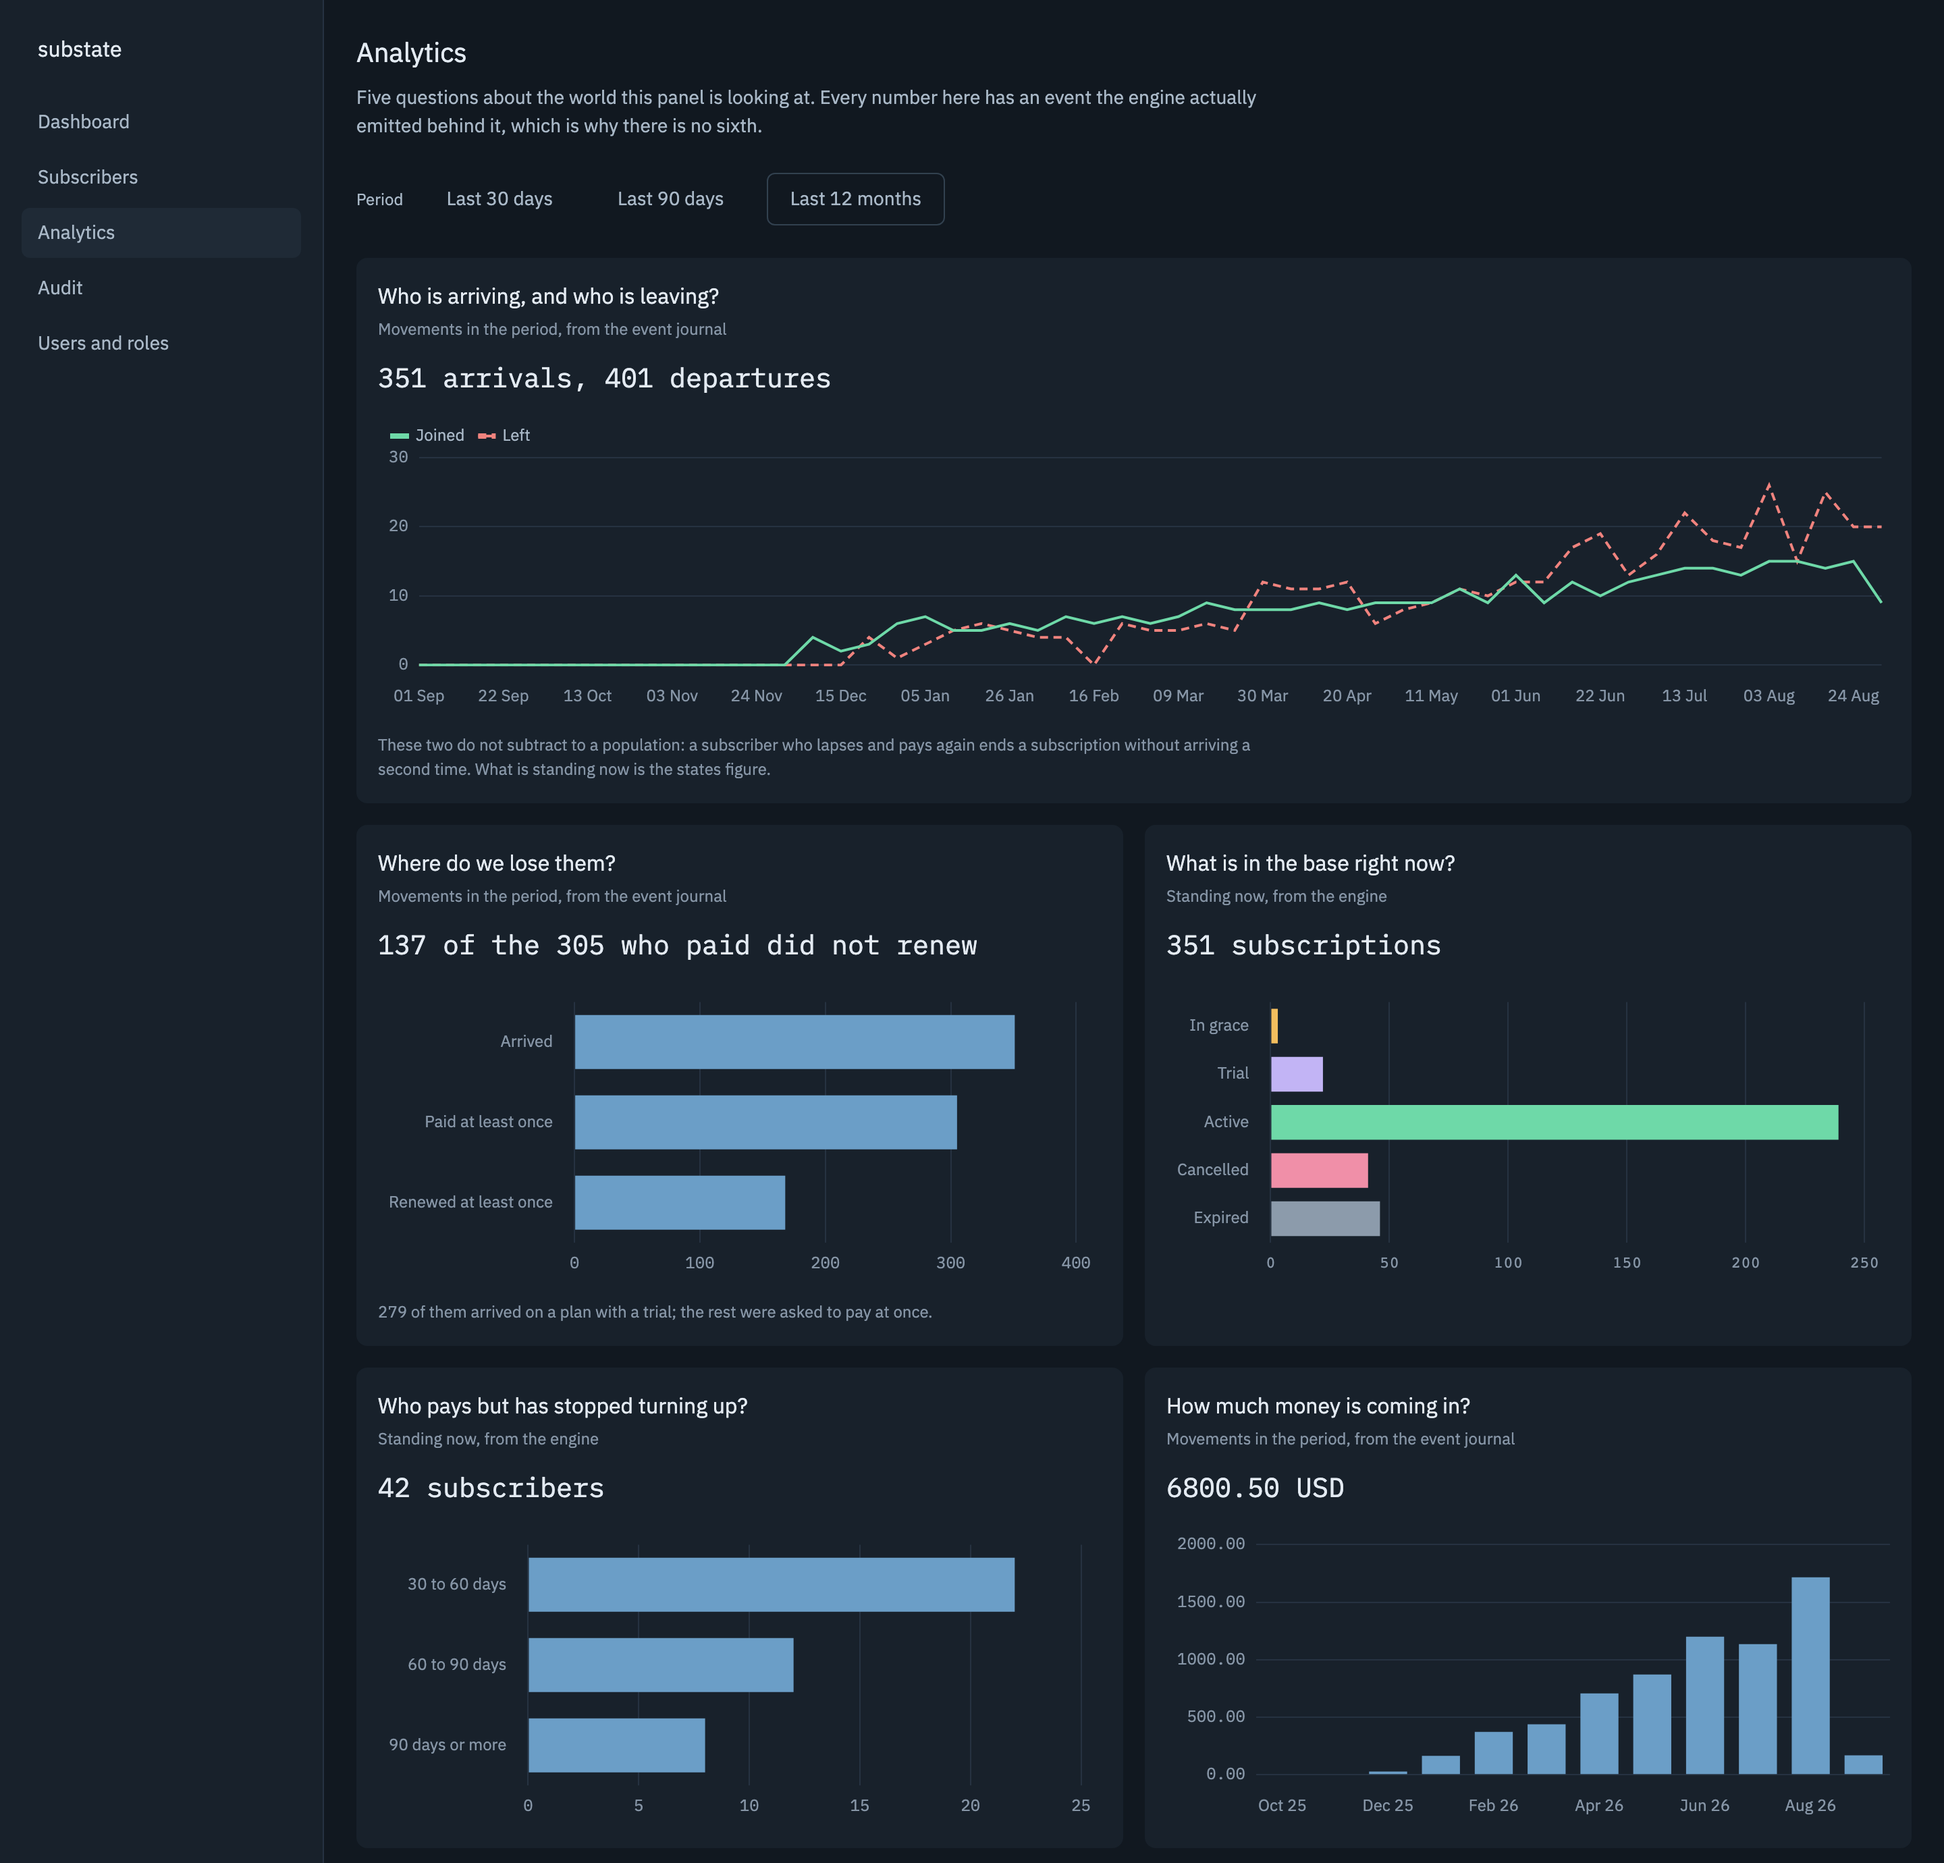
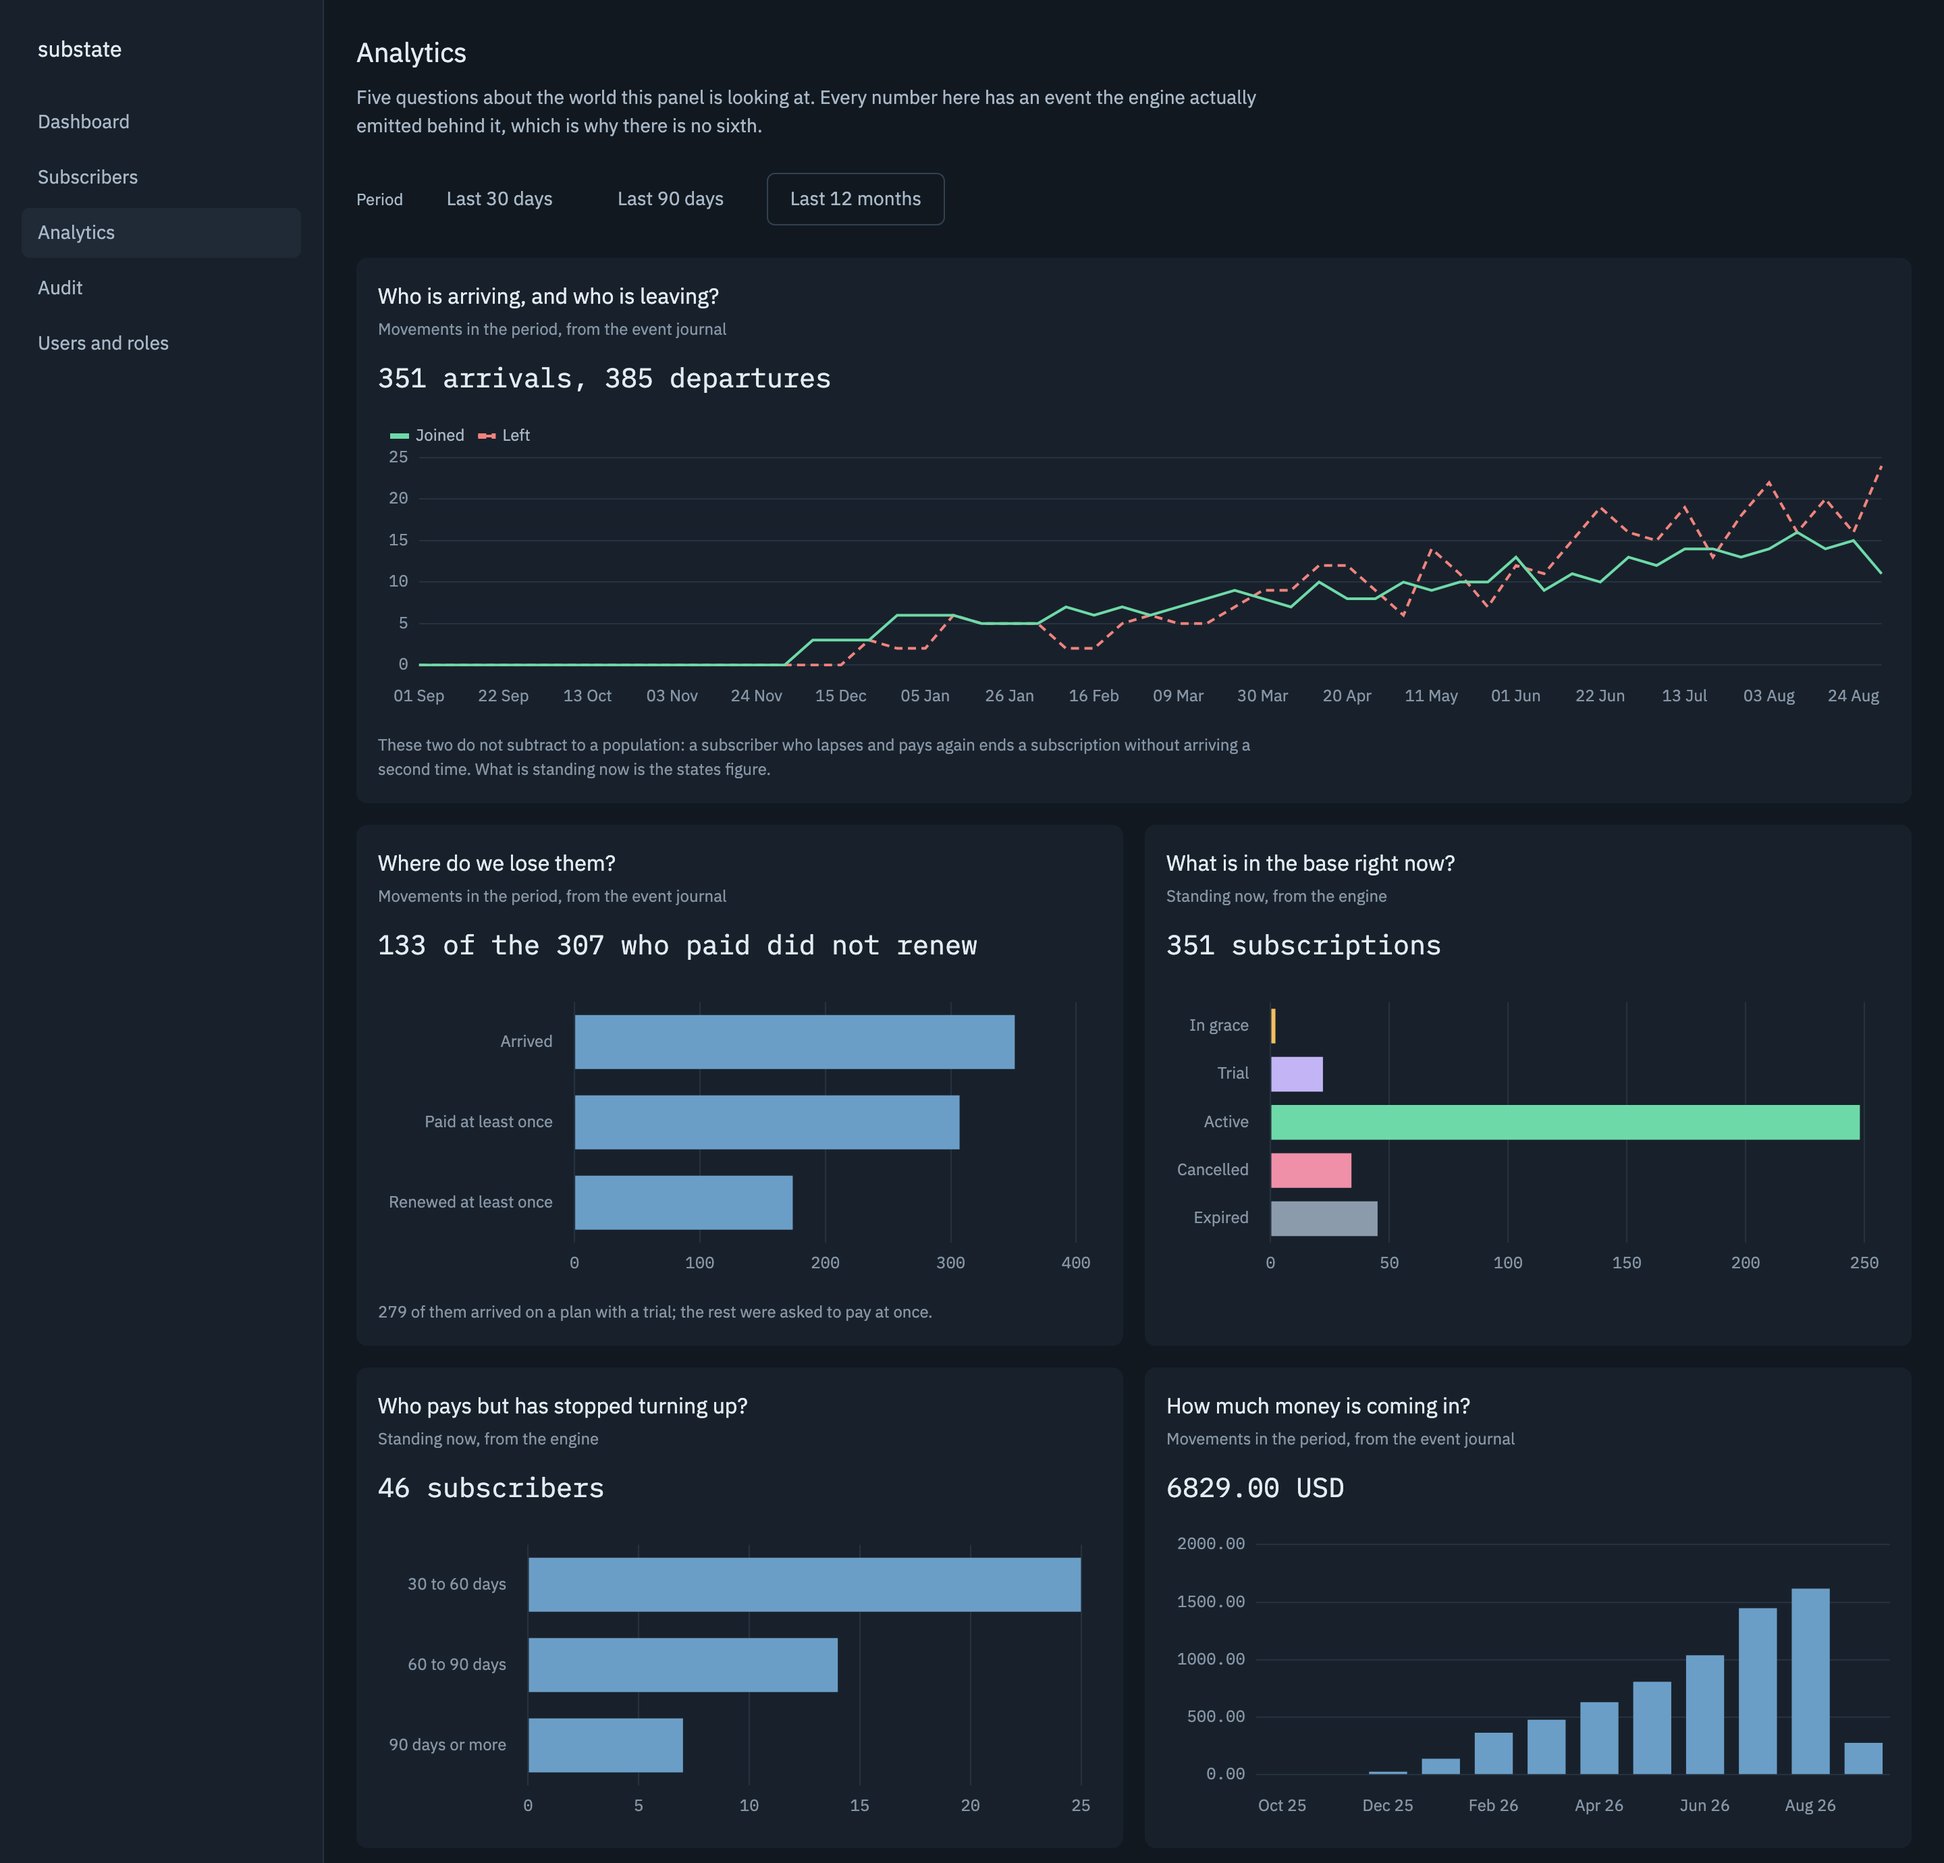
fix(backend): standing grace is a size, and the test asks for one
A single-digit population read once is a sample. Over 120 landing days it
ran 0 to 8 around a mean of 3.1, so the floor of three sat below its own
mean and failed on 38% of them — and the call-today filter was empty on
one day in forty.

The weekly plan makes most of the missed payments and held them two days,
which is shorter than a weekend. Six puts the mean at 5.6 and empties the
filter on none of those 120 days. The test now asserts the mean over a
week of landing days, and the picture chooses its own page.

diff --git a/frontend/capture/subscribers.capture.ts b/frontend/capture/subscribers.capture.ts
@@ -16,7 +16,7 @@
 
 import { fileURLToPath } from 'node:url'
 
-import { expect, test } from '@playwright/test'
+import { expect, test, type Page } from '@playwright/test'
 
 import { account } from '../playwright.config.ts'
 
@@ -25,21 +25,32 @@ import { account } from '../playwright.config.ts'
 const SHOT = fileURLToPath(new URL('../../docs/subscribers.png', import.meta.url))
 
 /** Twelve rows rather than the default twenty-five: the pager is only worth showing next to the
- *  rows it pages through, and twenty-five of them push it a screen below the filters.
- *
- *  The order is the table's own, and the page is not the first one. Sorted by last activity, page
- *  one is everybody who turned up today — trials and actives, two colours for a column that has
- *  five. Further in, the same order holds four of them, and both pager buttons are live.
- *
- *  THE PAGE NUMBER IS RE-CHOSEN WHEN THE CALENDAR MOVES IT, and that is the arrangement rather
- *  than a maintenance cost. The seed fixes the population; the world is nine months of history
- *  ending now, so which people sit on which page of an activity-ordered table moves as the days
- *  do. It was page six; the assertion below is what said so rather than letting the picture
- *  quietly become a column of one colour. */
-const QUERY = '?page=28&pageSize=12'
+ *  rows it pages through, and twenty-five of them push it a screen below the filters. */
 const PAGE_SIZE = 12
 
+/** THE PAGE IS CHOSEN HERE RATHER THAN WRITTEN DOWN, and that is the correction.
+ *
+ *  A pinned number was re-chosen by hand every time the calendar moved under the world — it was
+ *  six, then twenty-eight — and measuring it finally said why that never stopped: over 21 landing
+ *  days the states on page 28 ran 2 to 4, and no page at all reached four on 8 of those days. A
+ *  written-down page with a floor under it is a coin, and it came up tails in CI.
+ *
+ *  So the run asks the table which page has the most of the lifecycle on it and photographs that
+ *  one. The floor below is what the world always affords: three of the five, on all 21 days. */
+const COLOURS = 3
+
+/** The table's own order, which is what makes the picture honest and also what caps it. Activity
+ *  and state are correlated by construction — today's visitors are trials and actives, the long
+ *  silent are expired and cancelled — so a page of twelve spans three states, not five. */
+const SORT = '-lastActiveAt'
+
 test('the subscriber table', async ({ page }) => {
+  const login = page.waitForResponse(
+    (response) =>
+      new URL(response.url()).pathname === '/api/auth/login' &&
+      response.request().method() === 'POST',
+  )
+
   await page.goto('/')
   await page.getByLabel('Email', { exact: true }).fill(account.email)
   await page.getByLabel('Password', { exact: true }).fill(account.password)
@@ -48,9 +59,11 @@ test('the subscriber table', async ({ page }) => {
   // Signed in before navigating, not merely asked to be. The access token is held in memory and
   // the navigation below throws that heap away, so leaving early lands on the login page with a
   // refresh cookie that was never issued.
+  const { accessToken } = (await (await login).json()) as { accessToken: string }
   await expect(page.getByRole('link', { name: 'Subscribers' })).toBeVisible()
 
-  await page.goto(`/subscribers${QUERY}`)
+  const chosen = await richestPage(page, accessToken)
+  await page.goto(`/subscribers?page=${chosen}&pageSize=${PAGE_SIZE}&sort=${SORT}`)
 
   const rows = page.locator('tbody tr')
   await expect(rows).toHaveCount(PAGE_SIZE)
@@ -65,10 +78,9 @@ test('the subscriber table', async ({ page }) => {
   // has scrolled below it is a pager the picture does not have.
   await expect(page.getByRole('button', { name: 'Next' })).toBeInViewport({ ratio: 1 })
 
-  // Four kinds of chip at least, because a column of one colour says nothing about a lifecycle
-  // and the five colours are most of what this screen has to explain.
+  // Enough of the lifecycle to explain the colours. A column of one says nothing about it.
   const distinct = new Set(await chips.allInnerTexts())
-  expect(distinct.size).toBeGreaterThan(3)
+  expect(distinct.size).toBeGreaterThanOrEqual(COLOURS)
 
   // The fonts are part of the design and arrive after the rows do; shooting before they land
   // photographs the fallback stack. `globalThis` because this file is type-checked without the
@@ -80,3 +92,32 @@ test('the subscriber table', async ({ page }) => {
   // rather than catching one of them a third of the way through.
   await page.screenshot({ path: SHOT, animations: 'disabled' })
 })
+
+/**
+ * The page of twelve holding the most states, asked of the table rather than assumed. Read whole
+ * rather than page by page: four requests instead of thirty, and the order is the one the browser
+ * is about to ask for.
+ */
+async function richestPage(page: Page, accessToken: string): Promise<number> {
+  const states: string[] = []
+  for (const chunk of [1, 2, 3, 4]) {
+    const answer = await page.request.get(
+      `/api/subscribers?page=${chunk}&pageSize=100&sort=${SORT}`,
+      { headers: { authorization: `Bearer ${accessToken}` } },
+    )
+    const body = (await answer.json()) as { items: { state: string }[] }
+    states.push(...body.items.map((item) => item.state))
+  }
+
+  let best = { page: 1, distinct: 0 }
+  // The last page is skipped: a short page draws a pager with nothing after it.
+  for (let start = 0; start + 2 * PAGE_SIZE <= states.length; start += PAGE_SIZE) {
+    const distinct = new Set(states.slice(start, start + PAGE_SIZE)).size
+    if (distinct > best.distinct && start > 0) best = { page: start / PAGE_SIZE + 1, distinct }
+  }
+  expect(
+    best.distinct,
+    'no page of the table held enough of the lifecycle to photograph',
+  ).toBeGreaterThanOrEqual(COLOURS)
+  return best.page
+}

diff --git a/backend/tests/test_seed.py b/backend/tests/test_seed.py
@@ -26,19 +26,36 @@ from app.subscribers.query import QUIET_AFTER
 from app.worlds.clock import OffsetClock
 
 # From the specification. The upper bounds matter as much as the lower ones: more than half the
-# table expired reads as a product somebody abandoned, and a standing GRACE of five percent is not
-# a number a real service produces.
+# table expired reads as a product somebody abandoned.
+
+# GRACE IS NOT HERE, and that is the correction rather than an omission. It is the one population
+# in single digits, so its value on any one day is a draw rather than a size: over 120 landing
+# days it ran 1 to 11 around a mean of 5.6.
+
+# A floor asserted per day is a coin weighted against whoever runs the suite. The test below
+# asserts the size instead.
 POPULATIONS: dict[str, tuple[int | None, int | None]] = {
     "active": (150, None),
     "expired": (None, 90),
     "trial": (20, None),
-    "grace": (3, 8),
     "cancelled": (25, None),
 }
 
+GRACE: tuple[int, int] = (3, 8)
+"""What a standing grace of this world's size comes to, as decision 101 derives it arithmetically:
+arrivals into grace times how long they stay. It describes the mean, which is what the test asserts
+it of."""
 
-async def run_once(seed: int = SEED) -> tuple[SeedReport, OffsetClock, EventTally]:
-    clock = OffsetClock(timedelta(days=-HISTORY_DAYS))
+LANDING_DAYS = 7
+"""How many end-dates the grace test builds. The seed fixes the history relative to its own end and
+the world is built ending now, so the calendar moves under it; one landing day is one sample."""
+
+
+async def run_once(
+    seed: int = SEED, *, ending_days_ago: int = 0
+) -> tuple[SeedReport, OffsetClock, EventTally]:
+    """One run of the seeder. `ending_days_ago` lands the same history on an earlier calendar."""
+    clock = OffsetClock(timedelta(days=-(HISTORY_DAYS + ending_days_ago)))
     tally = EventTally()
     engine = SubscriptionEngine(
         MemoryStorage(), clock=clock, on_event=tally, default_program=USERS_PROGRAM
@@ -101,6 +118,26 @@ async def test_every_state_holds_a_population_worth_filtering_by(
             assert held >= low, f"{state} holds {held}, which is below {low}"
         if high is not None:
             assert held <= high, f"{state} holds {held}, which is above {high}"
+
+
+async def test_grace_is_a_handful_on_any_day_and_a_size_across_a_week() -> None:
+    """The state the design calls "call today", asserted as a size rather than as a draw.
+
+    A single-digit count read once is a sample. A floor of three, asserted per day, sat below its
+    own mean and failed on 38% of landing days.
+
+    So the mean over a week of them carries the range, and the property the range exists for — the
+    filter is never empty — is asserted of every day in that week.
+    """
+    held = [
+        (await run_once(ending_days_ago=day))[0].states.get("grace", 0)
+        for day in range(LANDING_DAYS)
+    ]
+    low, high = GRACE
+
+    assert low <= sum(held) / len(held) <= high, f"grace averaged {held} over {LANDING_DAYS} days"
+    # The one this is all for. Measured at zero empty days in 120, and it was three before.
+    assert all(count > 0 for count in held), f"the grace filter was empty on a day: {held}"
 
 
 async def test_the_world_is_about_the_size_the_specification_asks_for(

diff --git a/backend/app/seed/catalogue.py b/backend/app/seed/catalogue.py
@@ -15,13 +15,16 @@ from substate import Accrual, Period, Plan, PromoCode, PromoKind, ReferralProgra
 # payment, and `Payment` has no currency field at all — so it is the panel that has to keep it
 # honest.
 PLANS: Final[tuple[Plan, ...]] = (
+    # Six days of courtesy, not two. The weekly plan renews thirty-nine times a year, so it makes
+    # most of the missed payments here and held them the shortest — which is why standing GRACE
+    # averaged three and emptied on one day in forty. Six is still under the period.
     Plan(
         id="weekly",
         price=200,
         currency="USD",
         period=Period.days(7),
         trial_days=0,
-        grace_days=2,
+        grace_days=6,
     ),
     Plan(
         id="monthly",

diff --git a/README.md b/README.md
@@ -161,6 +161,16 @@ renewed twice, and seven in ten had lapsed at least once.
 model and train you to edit the test instead of thinking; ranges catch the thing that matters,
 which is a population drifting out of the shape that makes the screen worth looking at.
 
+**And a range is asserted of a size, not of a draw** — which took a red build to notice. Standing
+grace is the one population in single digits, so its value on any given day is a sample: the world
+is built ending *now*, and the same seed lands on a different calendar every day. Measured over 120
+consecutive landing days it ran 0 to 8 around a mean of 3.1, so the floor of three the test held it
+to was below its own mean and failed on 38% of days — and the demonstration's *call today* filter
+was empty on one day in forty. The weekly plan, which renews thirty-nine times a year and so
+produces most of the missed payments, held them for two days; six days of courtesy puts the mean at
+5.6 and leaves the filter empty on none of those 120 days. The test now asserts the mean over a
+week of landing days, which is what the calibration was ever a statement about.
+
 Comments in the code say what breaks if the line beside them changes. The reasoning behind a
 decision is in the pull request that made it.
 
